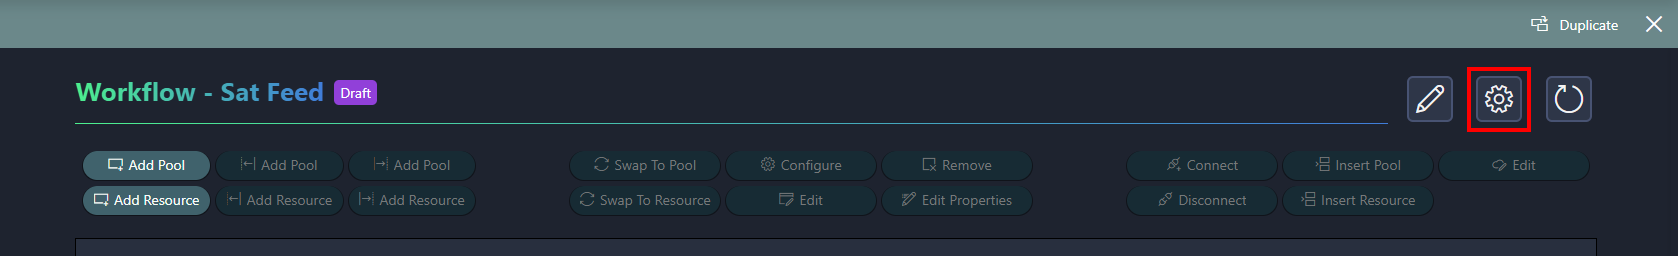
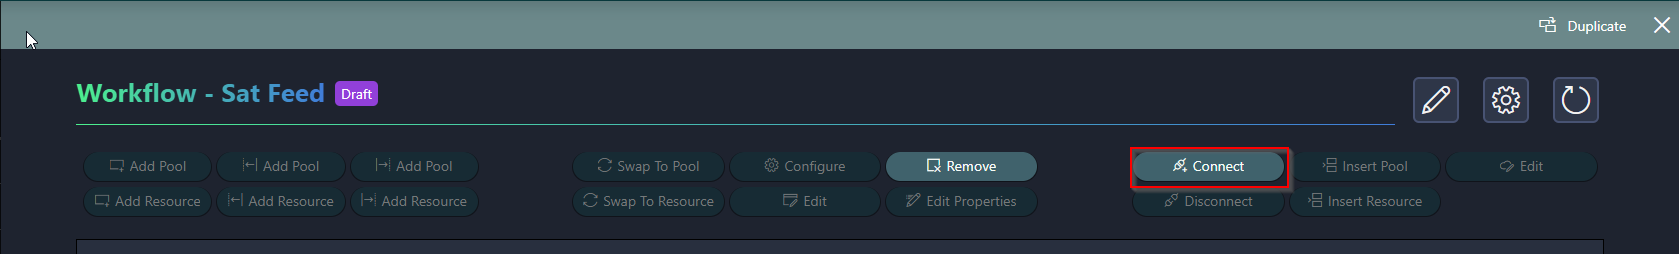
MediaOps improvements

diff --git a/solutions/standard_solutions/MediaOps/MediaOps.Plan/Apps/MO_Scheduling_Configuration.md b/solutions/standard_solutions/MediaOps/MediaOps.Plan/Apps/MO_Scheduling_Configuration.md
@@ -27,6 +27,9 @@ The dialog consists of two main areas:
 
 - **Right side**: The [automated actions](#automated-actions) (orchestration scripts), which allow you to configure scripts that run at specific moments during the lifecycle of a job.
 
+   > [!NOTE]
+   > [Automated actions](#automated-actions) are only visible if [MediaOps Live](xref:MediaOps.Live) is installed.
+
 ### Capabilities
 
 [Capabilities](xref:MO_Resource_Studio#capabilities) give a qualitative description of a resource, making it clear what it can be used for. When capabilities are configured in the scheduling configuration, only resources that match all defined capabilities can be selected from the resource pool.

diff --git a/solutions/standard_solutions/MediaOps/MediaOps.Plan/Apps/People_Organizations/Managing_Organizations.md b/solutions/standard_solutions/MediaOps/MediaOps.Plan/Apps/People_Organizations/Managing_Organizations.md
@@ -72,6 +72,9 @@ To configure organization members for an existing organization:
 
    If you quickly want to find a specific contact in the lists, click the magnifying glass icon at the top and specify a filter.
 
+   > [!NOTE]
+   > Adding members that are already part of another organization will remove them from it.
+
 When you close the panel, the selected organization members will be shown in the list of members in the *Details* panel.
 
 ## Deprecating an organization

diff --git a/solutions/standard_solutions/MediaOps/MediaOps.Live/Apps/MO_Virtual_Signal_Groups.md b/solutions/standard_solutions/MediaOps/MediaOps.Live/Apps/MO_Virtual_Signal_Groups.md
@@ -55,7 +55,7 @@ When you have created a virtual signal group, you can start adding endpoints to 
 
 ## Levels
 
-Levels define a logical structure for the virtual signal groups on the system. Each level is assigned a unique level number, a name, and a specific [transport type](#transport-types). If a specific transport type is specified for a level, it will only be possible to add endpoints of that same type on that level in a virtual signal group.
+Levels define a logical structure for the virtual signal groups on the system. Each level is assigned a unique level number, a name, and a specific [transport type](#transport-types). It will only be possible to add endpoints of the same type on the level in a virtual signal group.
 
 Levels defined in the Virtual Signal Groups app are defined system-wide, meaning that the level structure of all virtual signal groups is the same. However, each individual signal group can contain an endpoint on a level or not.
 